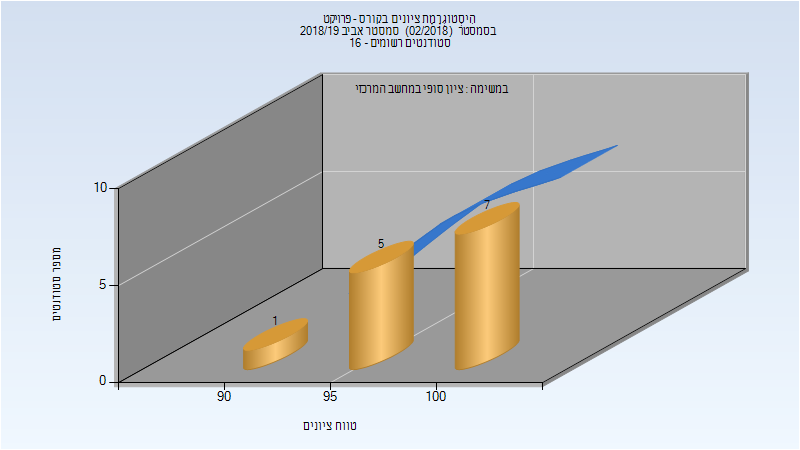
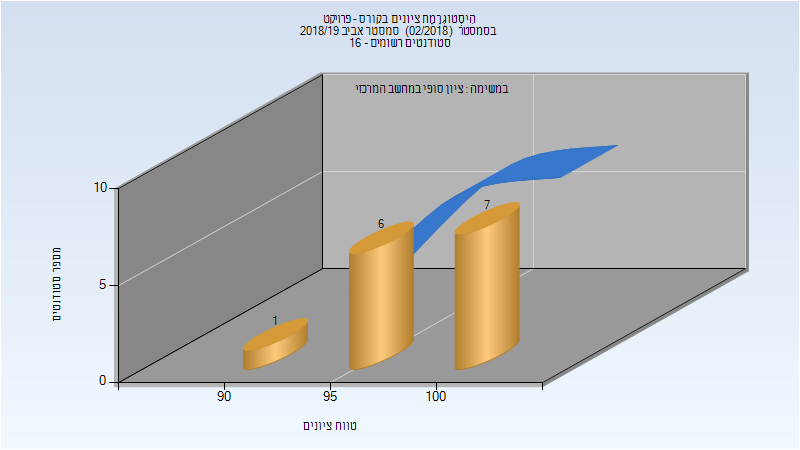
Deploy michael-maltsev/technion-histograms to github.com/michael-maltsev/technion-histograms.git:gh-pages

Changed region(s): [[0.4375, 0.3111, 0.7812, 0.6222]]

diff --git a/114229/index.html b/114229/index.html
@@ -65,13 +65,13 @@
 </thead>
 <tbody>
 <tr>
-<td>13</td>
-<td>13/0</td>
+<td>14</td>
+<td>14/0</td>
 <td>100</td>
 <td>92</td>
 <td>100</td>
-<td>97.846</td>
-<td>100</td>
+<td>97.643</td>
+<td>99</td>
 </tr>
 </tbody>
 </table>

diff --git a/114229/README.md b/114229/README.md
@@ -18,7 +18,7 @@
 
 | סטודנטים | עברו/נכשלו | אחוז עוברים | ציון מינימלי | ציון מקסימלי | ממוצע | חציון |
 | ---- | ---- | ---- | ---- | ---- | ---- | ---- |
-| 13 | 13/0 | 100 | 92 | 100 | 97.846 | 100 |
+| 14 | 14/0 | 100 | 92 | 100 | 97.643 | 99 |
 
 ## חורף 2019-2020
 
